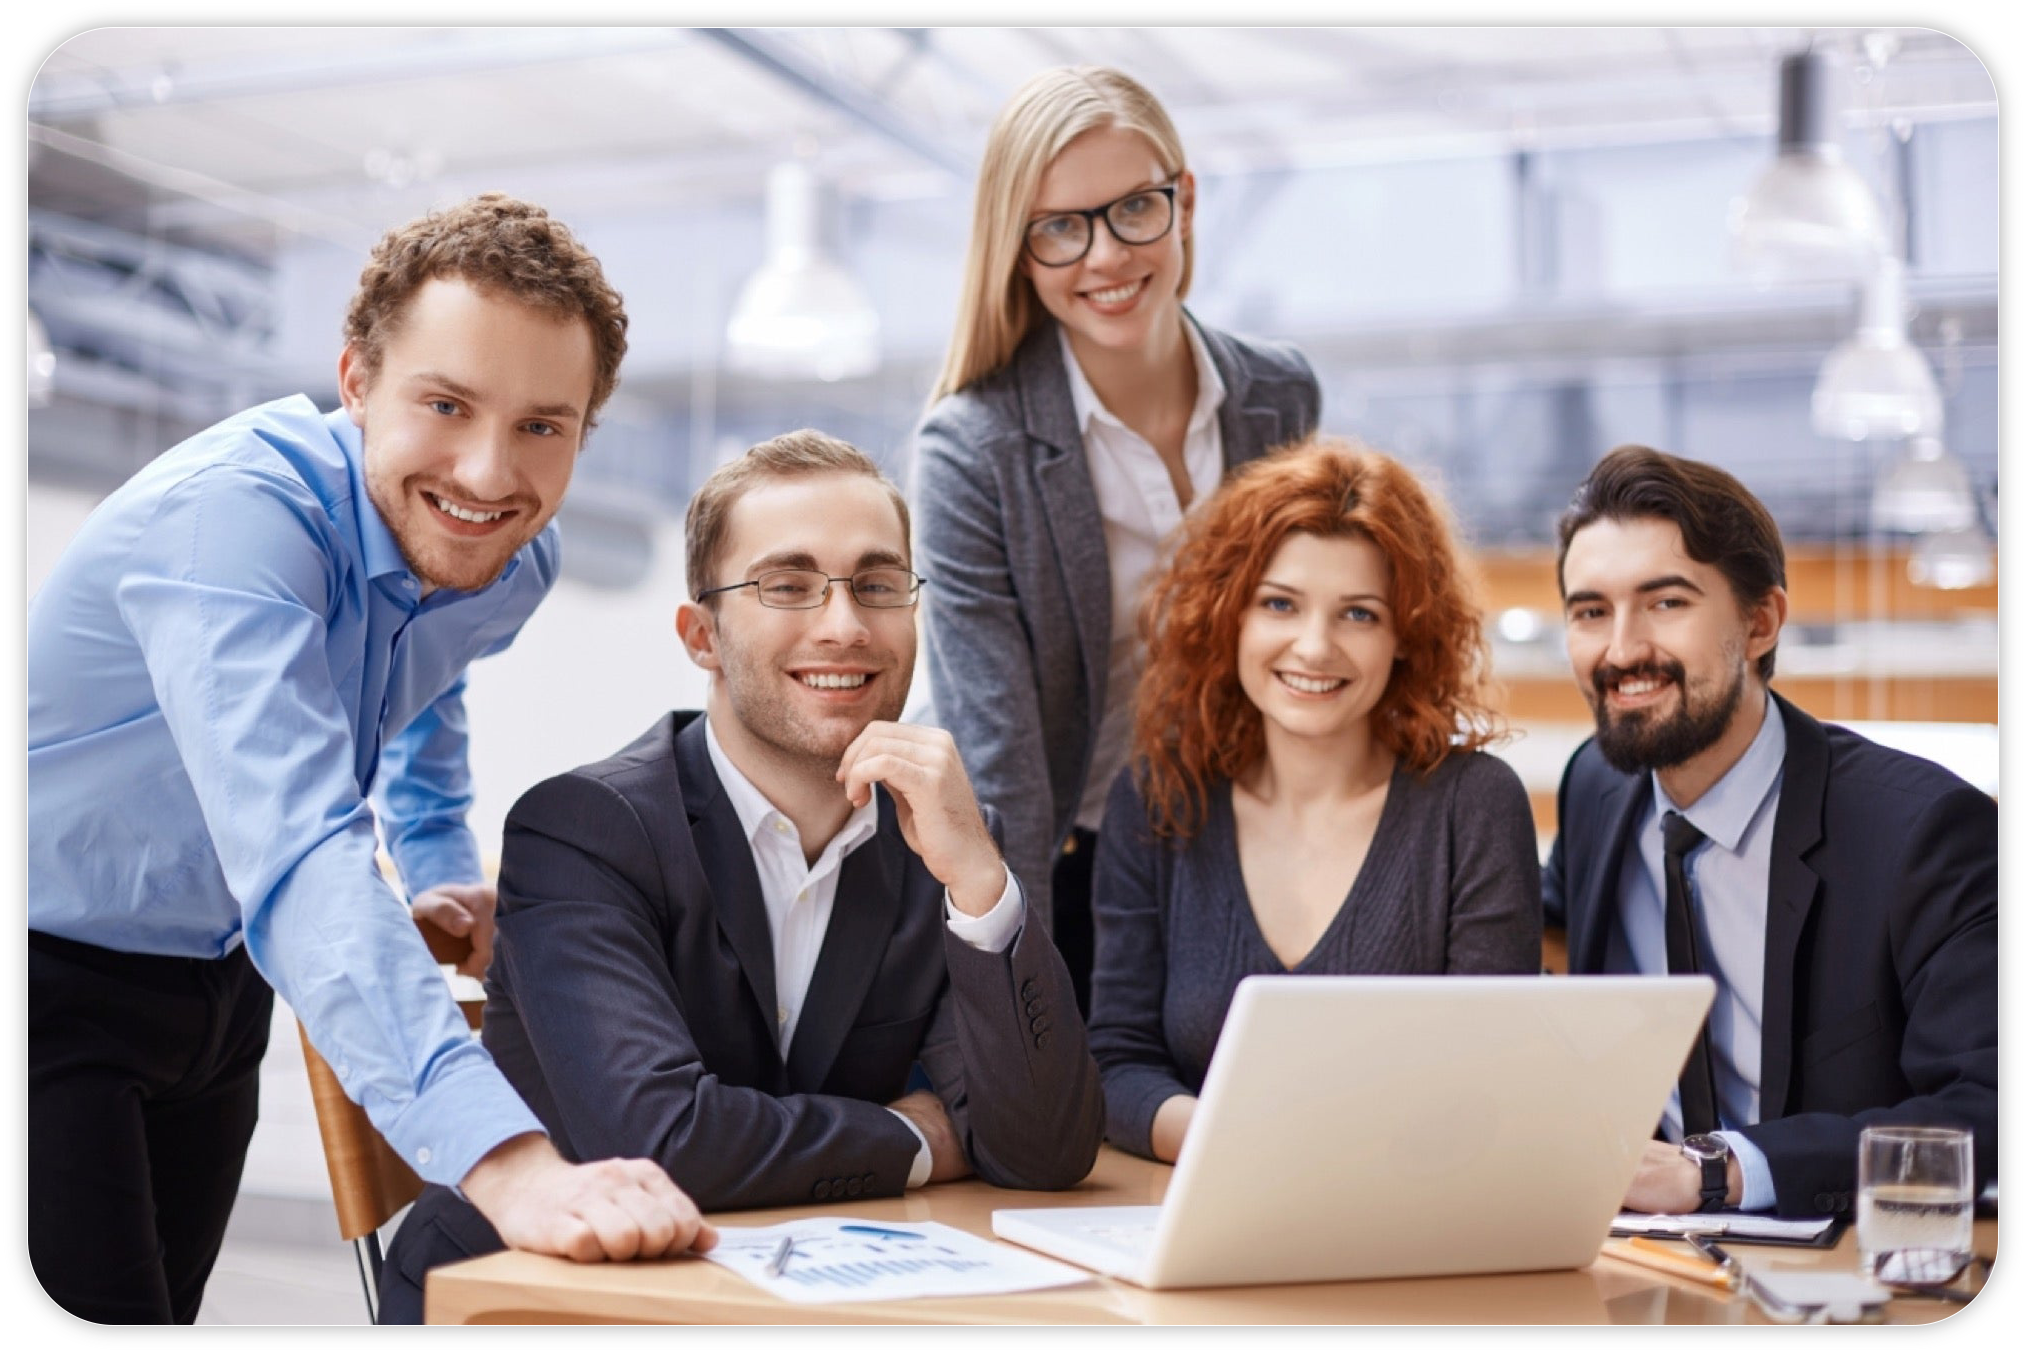
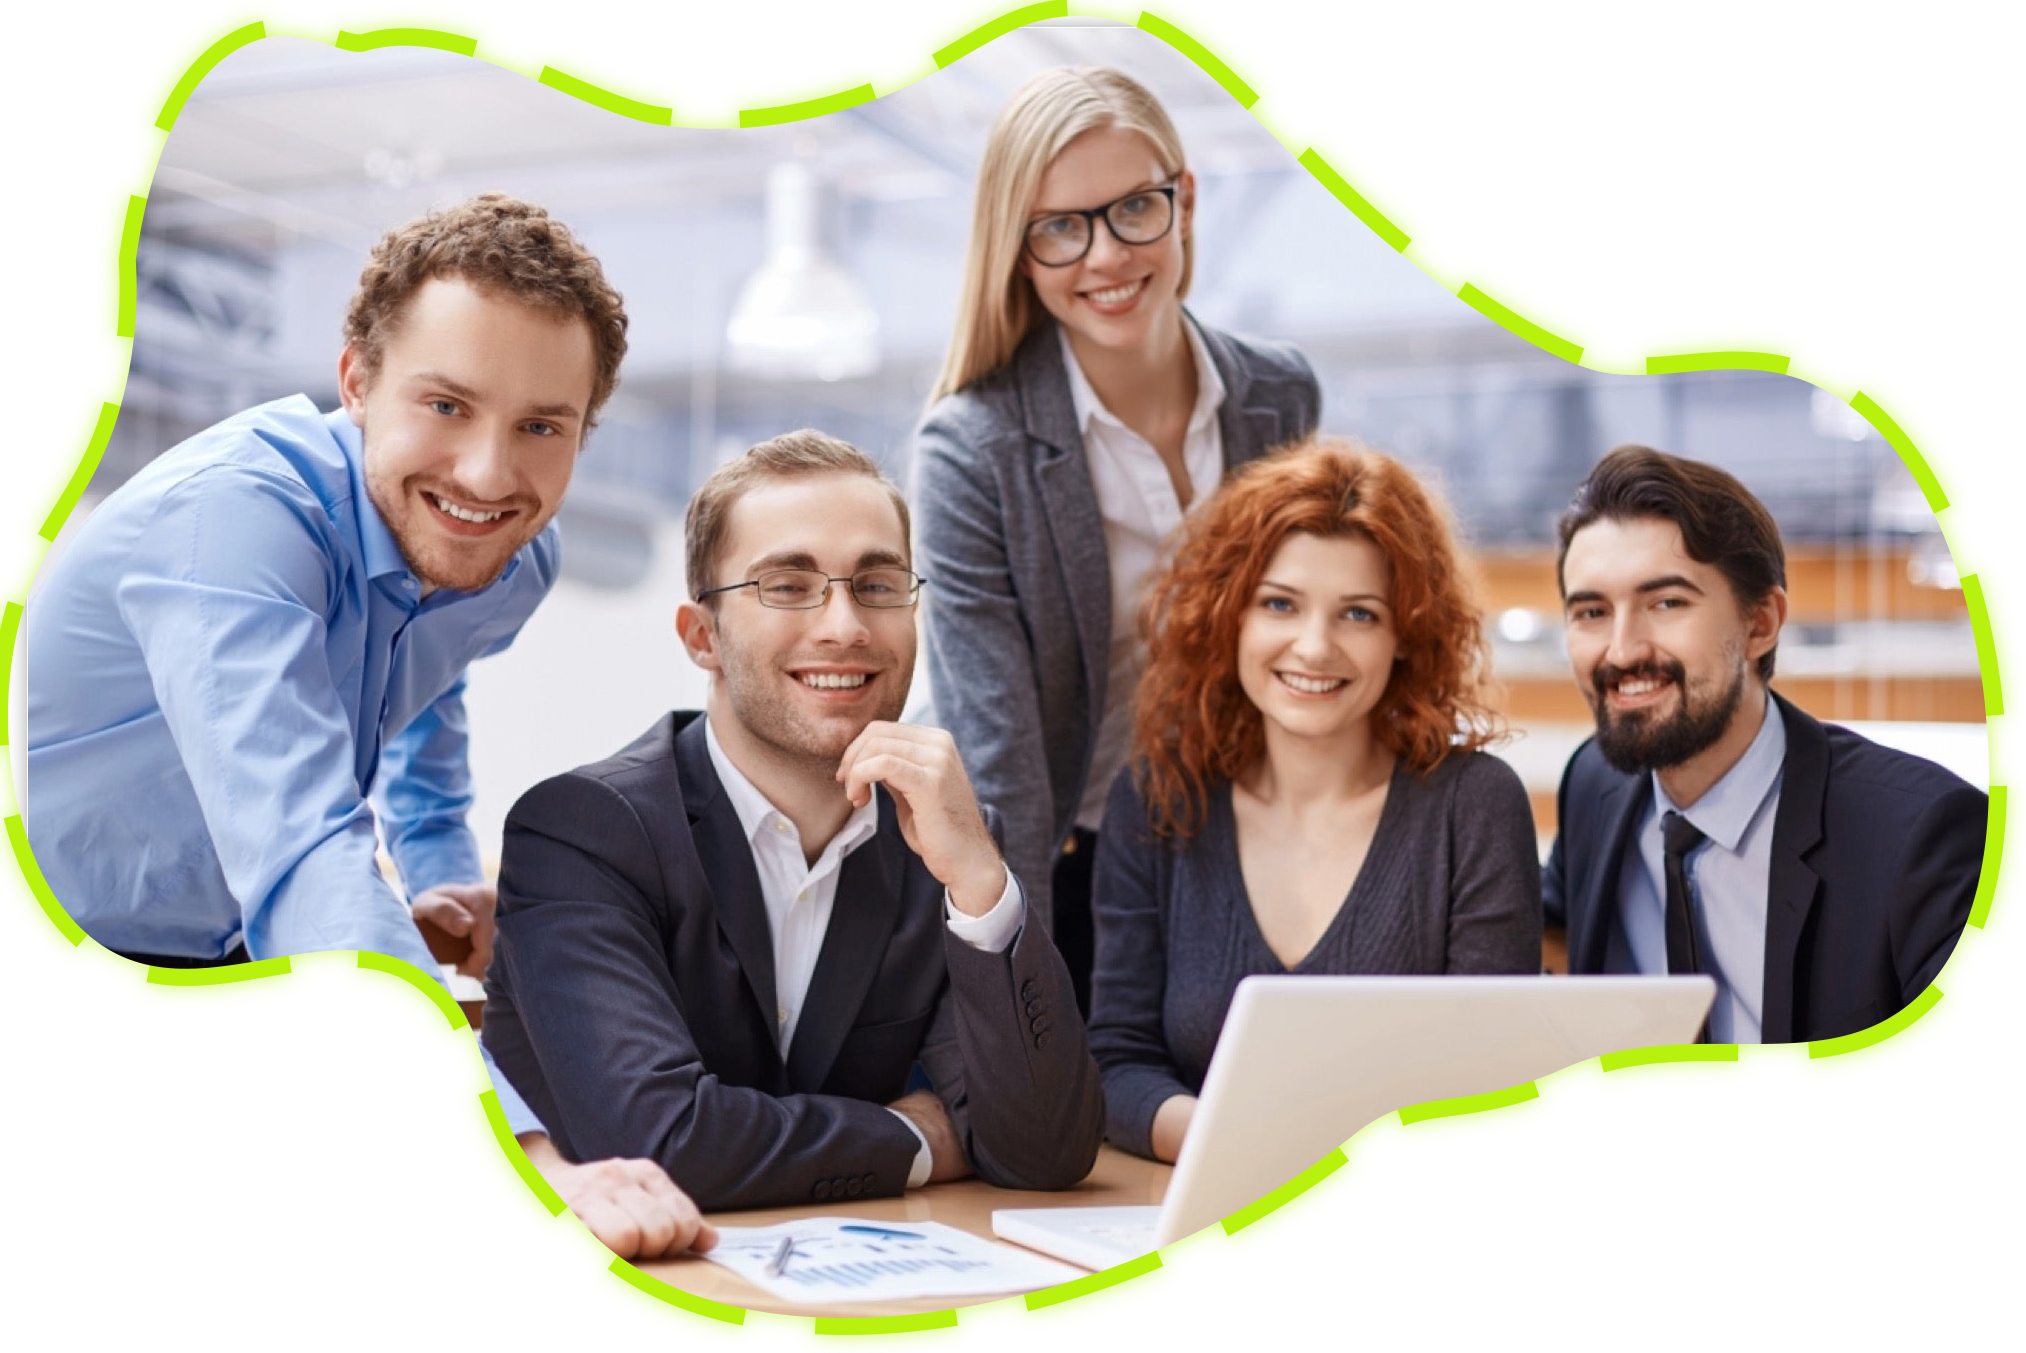
change photo about-us-sec

Changed region(s): [[0.0, 0.0, 0.9951, 0.9933]]

diff --git a/index.html b/index.html
@@ -357,9 +357,9 @@
                     <div class="about-us-sec--content__bg-r">
                         <img src="assets/images/about-us/about-us-bg-r.png" alt="">
                     </div>
-                    <div class="about-us-sec--content__bg-l">
+                    <!-- <div class="about-us-sec--content__bg-l">
                         <img src="assets/images/about-us/about-us-bg-l.png" alt="">
-                    </div>
+                    </div> -->
                 </div>
 
                 <div class="about-us-sec--content__txt d-flex flex-column flex-lg-row align-items-center justify-content-between gap-3 gap-lg-5 px-0 px-lg-2">

diff --git a/assets/css/index.css b/assets/css/index.css
@@ -525,12 +525,12 @@
     height: 58%;
 }
 
-.about-us-sec--content__bg-l img{
+/* .about-us-sec--content__bg-l img{
     position: absolute;
     margin-top: -190px;
     left: 0;
     width: 50%;
-}
+} */
 
 .about-us-sec--content__txt{
     margin-top: 27px;
